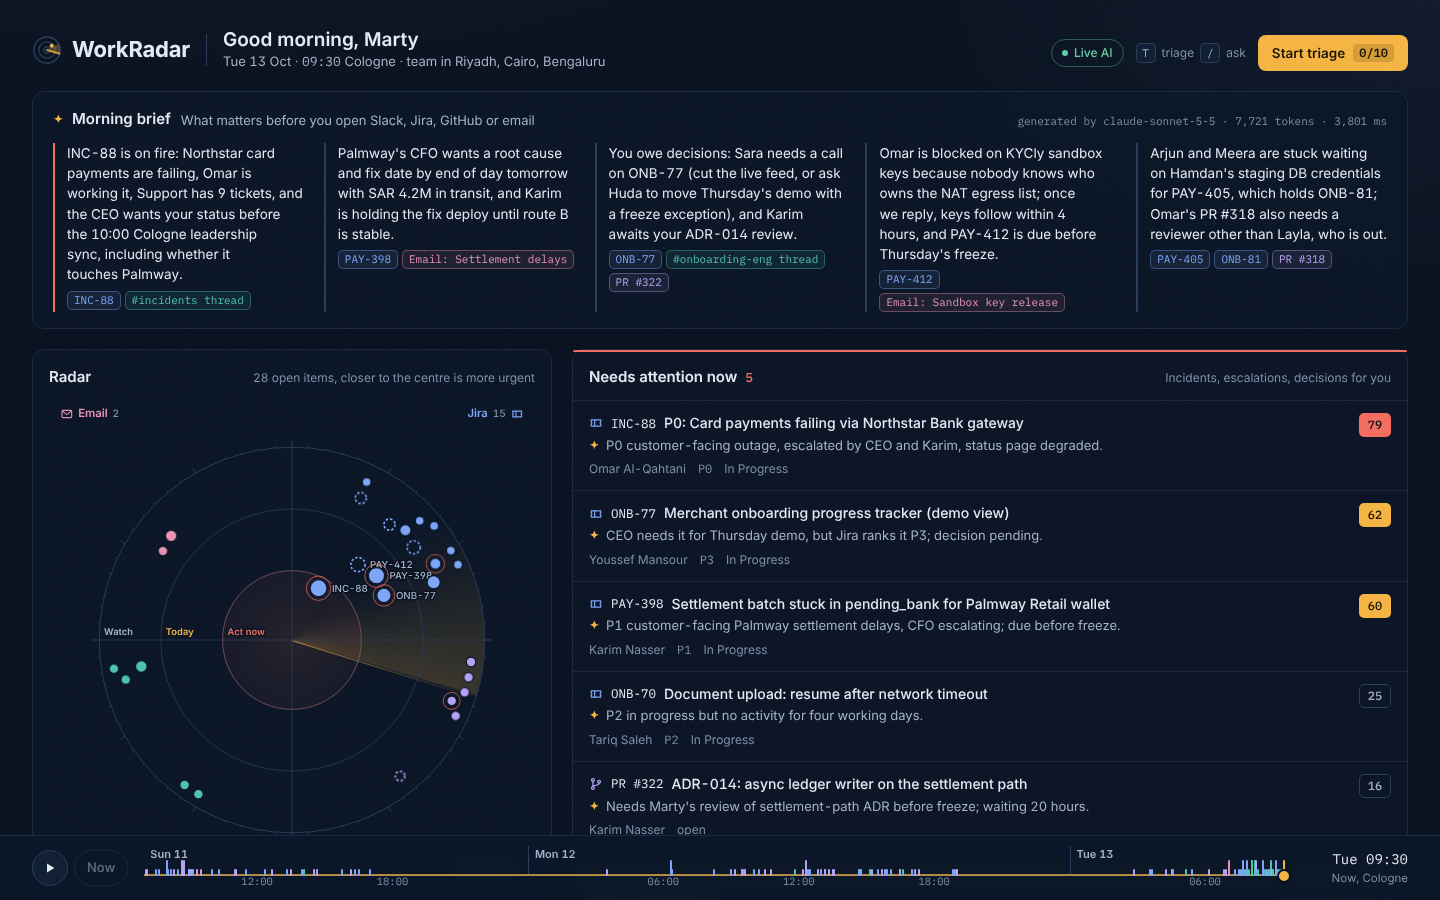
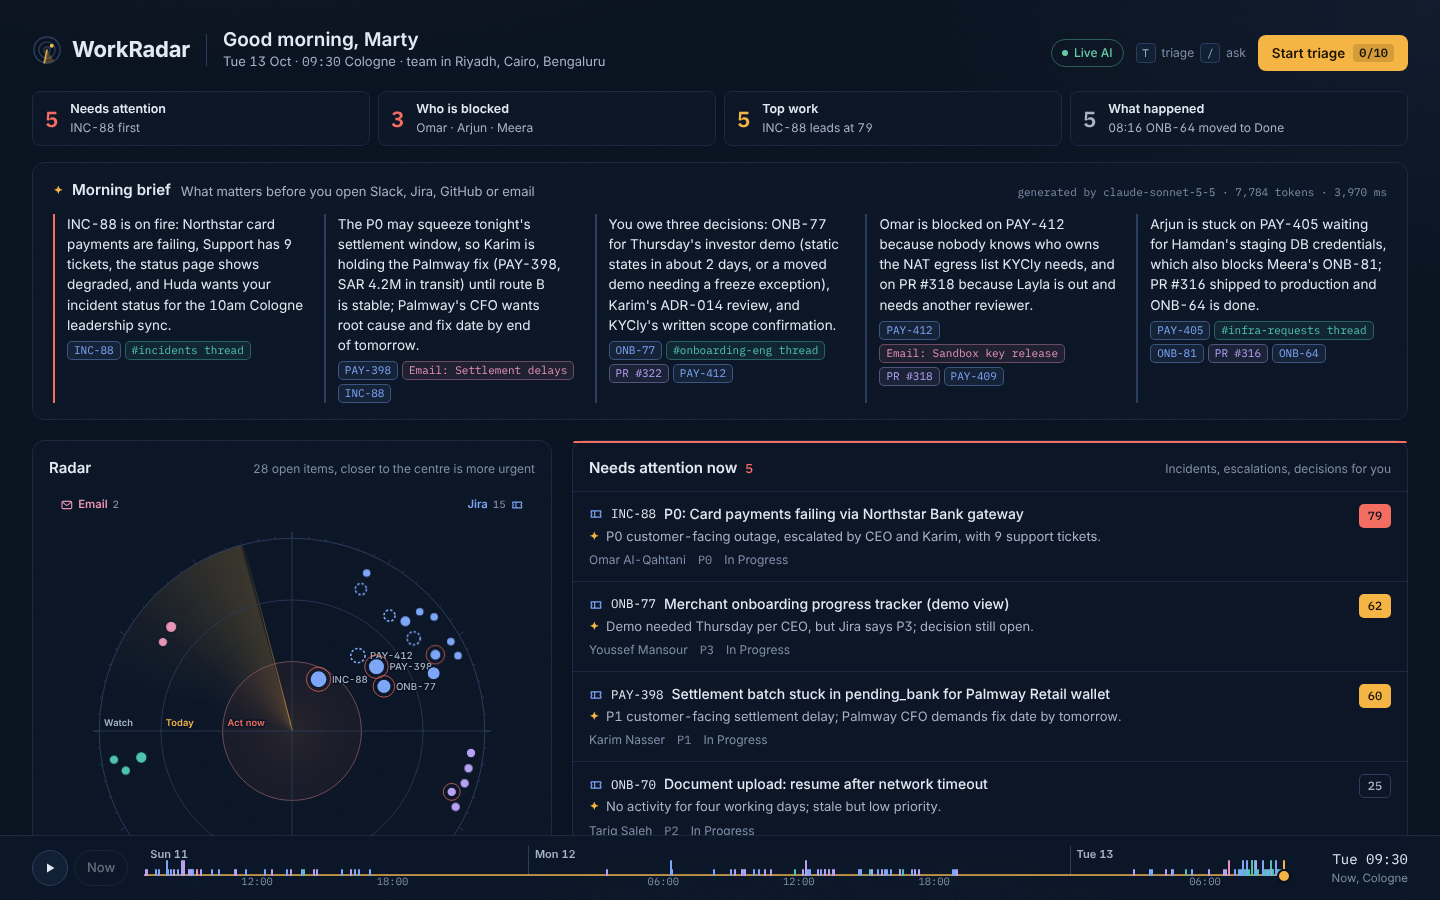
Live screenshot with at-a-glance strip; token log
Claude-Session: https://claude.ai/code/session_01PQcJWG2dSx8cDgz6gXEZE4

diff --git a/docs/token-log.md b/docs/token-log.md
@@ -20,3 +20,11 @@ How this is measured: subagent figures are the token totals each agent reported 
 | Morning brief | claude-sonnet-5-5 | 7,185 | 536 | 3.8 s |
 | AI reasons (all board items in one call) | claude-haiku-5-5 | 6,578 | 1,025 | 4.4 s |
 | Triage nudge | claude-haiku-5-5 | 570 | 76 | 1.1 s |
+
+## Review and polish
+
+| Step | Who | Model | Tokens |
+| --- | --- | --- | --- |
+| Independent review of the live app and repo | Subagent | Claude Sonnet 5.5 | 114,351 |
+| UI fixes from the review (at-a-glance strip, sticky radar, brief clamp) | Subagent, resumed | Claude Opus 5.5 | not reported by the tool |
+| AI Workflow doc, PRD v2 edits, review fixes | Main session | Claude Opus 5.5 | ~70,000 (approx.) |
